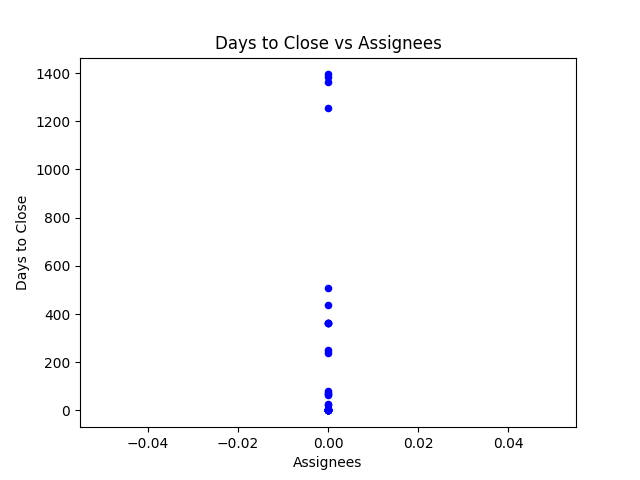
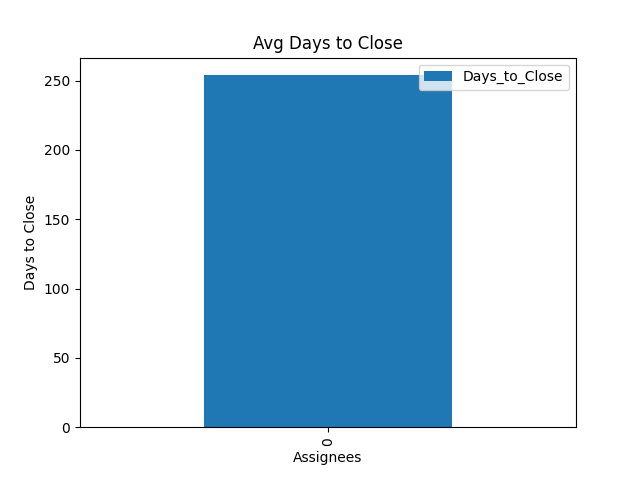
Finished sizeDriver. Working on issuesDensityDriver

diff --git a/issuesDriver.py b/issuesDriver.py
@@ -62,10 +62,13 @@ vis.createDoubleBarChart('Open', bakkesOpenIssuesYearlyTotal, 'Closed', bakkesCl
 PaperClosedIssuesDF = utl.addDaysToClose(PaperClosedIssuesDF, 'Created_At', 'Closed_At')
 BakkesClosedIssuesDF = utl.addDaysToClose(BakkesClosedIssuesDF, 'Created_At', 'Closed_At')
 
-#Create Do issues with more assignees stay open longer? scatterplot
-vis.createScatterPlot(PaperClosedIssuesDF, 'Assignees', 'Days_to_Close', 'Blue', 'Assignees', 'Days to Close', 'Days to Close vs Assignees',
+AvgPaperClosedIssuesDF = PaperClosedIssuesDF.groupby(["Assignees"], as_index=False).mean()
+AvgBakkesClosedIssuesDF = BakkesClosedIssuesDF.groupby(["Assignees"], as_index=False).mean()
+
+#Create Do issues with more assignees stay open longer? 
+vis.createBarChart(AvgPaperClosedIssuesDF, 'Assignees', 'Days_to_Close', 'Assignees', 'Days to Close', 'Avg Days to Close',
                       True, 'DaystoClosevsAssigneesPaper', 'issuesVis')
-vis.createScatterPlot(BakkesClosedIssuesDF, 'Assignees', 'Days_to_Close', 'Blue', 'Assignees', 'Days to Close', 'Days to Close vs Assignees',
+vis.createBarChart(AvgBakkesClosedIssuesDF, 'Assignees', 'Days_to_Close', 'Assignees', 'Days to Close', 'Avg Days to Close',
                       True, 'DaystoClosevsAssigneesBakkes', 'issuesVis')
 
 #Do issues with more comments stay open longer?
@@ -73,3 +76,5 @@ vis.createScatterPlot(PaperClosedIssuesDF, 'Comments', 'Days_to_Close', 'Blue', 
                       True, 'DaystoClosevsCommentsPaper', 'issuesVis')
 vis.createScatterPlot(BakkesClosedIssuesDF, 'Comments', 'Days_to_Close', 'Blue', 'Comments', 'Days to Close', 'Days to Close vs Comments',
                       True, 'DaystoClosevsCommentsBakkes', 'issuesVis')
+
+

diff --git a/sizeDriver.py b/sizeDriver.py
@@ -4,3 +4,17 @@ import utils as utl
 #Create Size DataFrames
 PaperSizeDF = vis.createDataFrame('size/PaperMCPaperSize.csv')
 BakkesSizeDF = vis.createDataFrame('size/bakkesmodorgBakkesModSDKSize.csv')
+
+PaperSizeDF = utl.addDate(PaperSizeDF, "Date", "CleanDate")
+PaperSizeDF = PaperSizeDF.drop("Date", axis=1)
+PaperSizeDF = PaperSizeDF.groupby(["CleanDate"], as_index=False).mean()
+
+BakkesSizeDF = utl.addDate(BakkesSizeDF, "Date", "CleanDate")
+BakkesSizeDF = BakkesSizeDF.drop("Date", axis=1)
+BakkesSizeDF = BakkesSizeDF.groupby(["CleanDate"], as_index=False).mean()
+
+
+
+vis.createLineChart(PaperSizeDF, "CleanDate", "Size", "Date", "Size in KBs", "Historical Trend of Repo Size",True, 'repoSizeTrendPaper', 'sizeVis')
+vis.createLineChart(BakkesSizeDF, "CleanDate", "Size", "Date", "Size in KBs", "Historical Trend of Repo Size",True, 'repoSizeTrendBakkes', 'sizeVis')
+

diff --git a/visualizations.py b/visualizations.py
@@ -37,3 +37,13 @@ def createDoubleBarChart(xAxis1Name, xAxis1, xAxis2Name, xAxis2, DFindex, xAxisT
     else:
         plt.show() 
 
+def createLineChart(df, xAxis, yAxis, xAxisTitle = "x Axis" , yAxisTitle = "y Axis", chartTitle = "Chart Title", save = False, fileName = "", savePath = ""):
+    df.plot.line(x=xAxis, y=yAxis)
+    plt.ylabel(yAxisTitle)
+    plt.xlabel(xAxisTitle)
+    plt.title(chartTitle)
+    if(save):
+        plt.savefig('{}/{}'.format(savePath, fileName))
+    else:
+        plt.show()          
+

diff --git a/utils.py b/utils.py
@@ -9,6 +9,10 @@ def addYear(df, dateFieldBeingConverted, newFieldName):
     df[newFieldName] = pd.to_datetime(df[dateFieldBeingConverted]).dt.year
     return df
 
+def addDate(df, dateFieldBeingConverted, newFieldName):
+    df[newFieldName] = pd.to_datetime(df[dateFieldBeingConverted]).dt.date
+    return df
+
 def addDaysToClose(df, createdDate, closedDate):
     df["Days_to_Close"] = (pd.to_datetime(df[closedDate]) - pd.to_datetime(df[createdDate])) / np.timedelta64(1, 'D')
     return df
